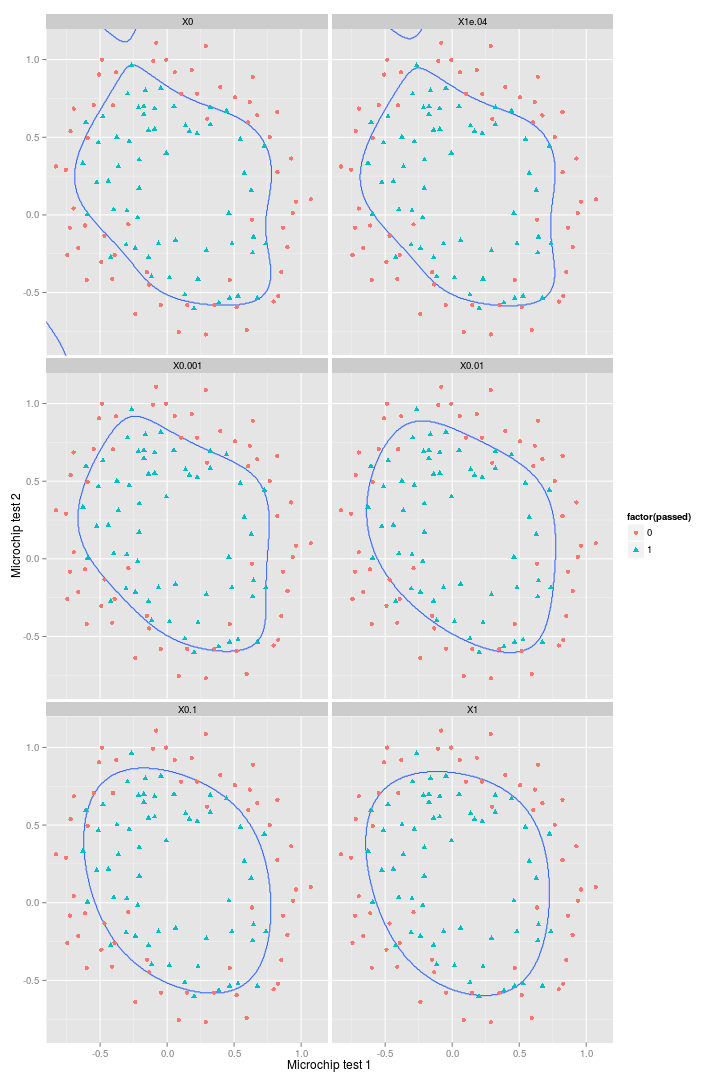
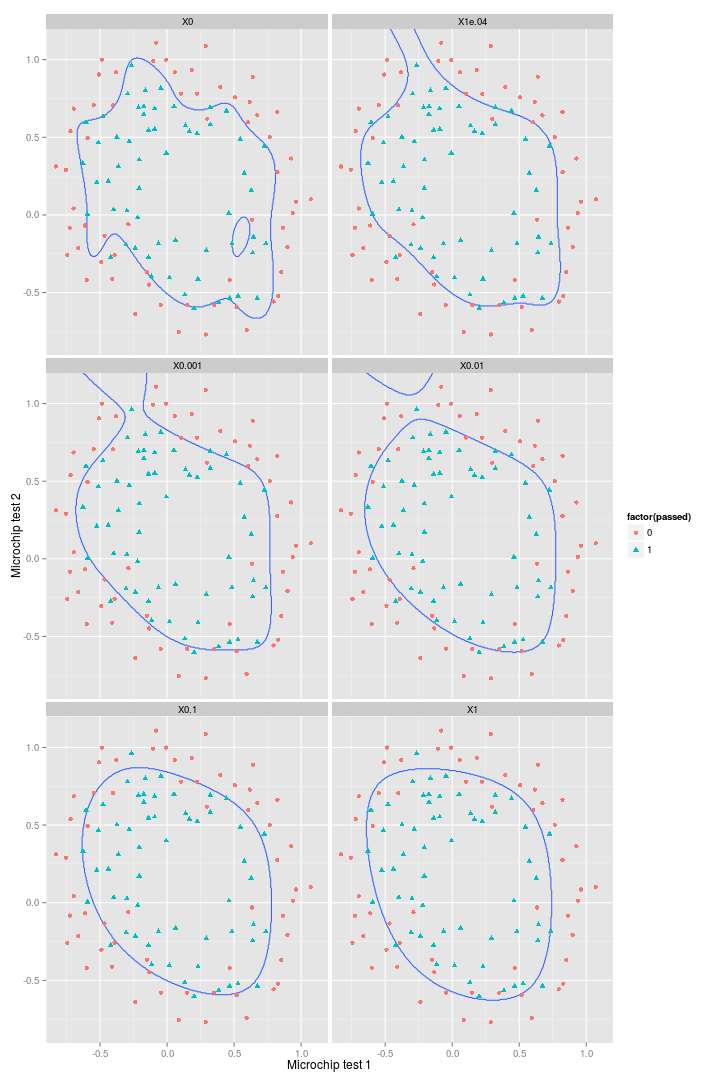
corrected errors in regularised logistic regression post

diff --git a/_posts/2015-04-10-regularised-logistic-regression.md b/_posts/2015-04-10-regularised-logistic-regression.md
@@ -1,7 +1,7 @@
 ---
 title: "Non-linear classification with logistic regression"
 date: 2015-04-10
-modified: 2015-04-10
+#modified: 2015-04-10
 excerpt: "Implementing regularisation and feature mapping."
 layout: post
 published: true
@@ -14,11 +14,11 @@ tags: [classification, logistic regression, fminunc, feature mapping, regularisa
 
  
  
-In my last post I compared vectorised logistic regression solved with an optimisation algorithm with a generalised linear model. I tested it out on a very simple dataset which could be classified using a linear boundary. In this post I'm folling the next part of Andrew Ng's Machine Learning course on [coursera](http://www.coursera.org) and implementing regularisation and feature mapping to allow me to map non-linear decision boundaries using logistic regression. And of course, I'm doing it in R, not Matlab or Octave.
+In my last post I compared vectorised logistic regression solved with an optimisation algorithm with a generalised linear model. I tested it out on a very simple dataset which could be classified using a linear boundary. In this post I'm following the next part of Andrew Ng's Machine Learning course on [coursera](http://www.coursera.org) and implementing regularisation and feature mapping to allow me to map non-linear decision boundaries using logistic regression. And of course, I'm doing it in R, not Matlab or Octave.
  
 ### Visualising the data
  
-First I plot the data...and it's pretty clear that to create an accurate decision boundary will probably require some level of polynomials in order to account for its spherical nature.
+First I plot the data...and it's pretty clear that to create an accurate decision boundary will require some degree of polynomial features in order to account for its spherical nature.
  
 
 {% highlight r %}
@@ -55,7 +55,7 @@ p
  
 ### Feature mapping
  
-In this example I'll map the features into all polynomial terms of $x_1$ and $x_2$ up to the fifth power. Hence:
+In this example I'll map the features into all polynomial terms of $x_1$ and $x_2$ up to the twelfth power giving a crazy amount of input features. Hence:
  
 $$
 mF(x)=\begin{bmatrix}
@@ -67,12 +67,12 @@ x_1 x_2 \\
 x_2^2 \\
 x_1^3 \\
 \vdots \\
-x_1x_2^5 \\
-x_2^6
+x_1x_2^{11} \\
+x_2^{12}
 \end{bmatrix}
 $$
  
-These polynomials can be calculated with the following code. The first rather inelegant nested `for` loop could probably be replaced with something more mathematically elegant. In future I will update this to take more than two input features.
+These polynomials can be calculated with the following code. In future I will update this to take more than two input features.
  
  
 
@@ -117,11 +117,11 @@ map_feature <- function(X1,X2,degree) {
   }
 {% endhighlight %}
  
-For this example, I will use an overly high degree of polynomial so that the effect of the regularisation is more pronounced.
+And tthe list of 91 features:
  
 
 {% highlight r %}
-degree <- 5
+degree <- 12
  
 poly <- map_feature(
   ex2data2$test_1,
@@ -135,14 +135,28 @@ poly %>% colnames
 
 
 {% highlight text %}
-##  [1] "1"         "X1^1*X2^0" "X1^0*X2^1" "X1^2*X2^0" "X1^1*X2^1"
-##  [6] "X1^0*X2^2" "X1^3*X2^0" "X1^2*X2^1" "X1^1*X2^2" "X1^0*X2^3"
-## [11] "X1^4*X2^0" "X1^3*X2^1" "X1^2*X2^2" "X1^1*X2^3" "X1^0*X2^4"
-## [16] "X1^5*X2^0" "X1^4*X2^1" "X1^3*X2^2" "X1^2*X2^3" "X1^1*X2^4"
-## [21] "X1^0*X2^5"
+##  [1] "1"          "X1^1*X2^0"  "X1^0*X2^1"  "X1^2*X2^0"  "X1^1*X2^1" 
+##  [6] "X1^0*X2^2"  "X1^3*X2^0"  "X1^2*X2^1"  "X1^1*X2^2"  "X1^0*X2^3" 
+## [11] "X1^4*X2^0"  "X1^3*X2^1"  "X1^2*X2^2"  "X1^1*X2^3"  "X1^0*X2^4" 
+## [16] "X1^5*X2^0"  "X1^4*X2^1"  "X1^3*X2^2"  "X1^2*X2^3"  "X1^1*X2^4" 
+## [21] "X1^0*X2^5"  "X1^6*X2^0"  "X1^5*X2^1"  "X1^4*X2^2"  "X1^3*X2^3" 
+## [26] "X1^2*X2^4"  "X1^1*X2^5"  "X1^0*X2^6"  "X1^7*X2^0"  "X1^6*X2^1" 
+## [31] "X1^5*X2^2"  "X1^4*X2^3"  "X1^3*X2^4"  "X1^2*X2^5"  "X1^1*X2^6" 
+## [36] "X1^0*X2^7"  "X1^8*X2^0"  "X1^7*X2^1"  "X1^6*X2^2"  "X1^5*X2^3" 
+## [41] "X1^4*X2^4"  "X1^3*X2^5"  "X1^2*X2^6"  "X1^1*X2^7"  "X1^0*X2^8" 
+## [46] "X1^9*X2^0"  "X1^8*X2^1"  "X1^7*X2^2"  "X1^6*X2^3"  "X1^5*X2^4" 
+## [51] "X1^4*X2^5"  "X1^3*X2^6"  "X1^2*X2^7"  "X1^1*X2^8"  "X1^0*X2^9" 
+## [56] "X1^10*X2^0" "X1^9*X2^1"  "X1^8*X2^2"  "X1^7*X2^3"  "X1^6*X2^4" 
+## [61] "X1^5*X2^5"  "X1^4*X2^6"  "X1^3*X2^7"  "X1^2*X2^8"  "X1^1*X2^9" 
+## [66] "X1^0*X2^10" "X1^11*X2^0" "X1^10*X2^1" "X1^9*X2^2"  "X1^8*X2^3" 
+## [71] "X1^7*X2^4"  "X1^6*X2^5"  "X1^5*X2^6"  "X1^4*X2^7"  "X1^3*X2^8" 
+## [76] "X1^2*X2^9"  "X1^1*X2^10" "X1^0*X2^11" "X1^12*X2^0" "X1^11*X2^1"
+## [81] "X1^10*X2^2" "X1^9*X2^3"  "X1^8*X2^4"  "X1^7*X2^5"  "X1^6*X2^6" 
+## [86] "X1^5*X2^7"  "X1^4*X2^8"  "X1^3*X2^9"  "X1^2*X2^10" "X1^1*X2^11"
+## [91] "X1^0*X2^12"
 {% endhighlight %}
  
-Chances are that using all these features will result in overfitting. Let's see the result of this:
+Now run the linear regression I implemented in my [previous post](http://ivyleavedtoadflax.github.io//implementing-vectorised-logistic-regression/).
  
 
 {% highlight r %}
@@ -161,7 +175,7 @@ ucminf_out$convergence
 
 
 {% highlight text %}
-## [1] 1
+## [1] 4
 {% endhighlight %}
 
 
@@ -173,10 +187,10 @@ ucminf_out$message
 
 
 {% highlight text %}
-## [1] "Stopped by small gradient (grtol)."
+## [1] "Stopped by zero step from line search"
 {% endhighlight %}
  
-So...it did converge, and if I was to call `ucminf_out$par`, it will return our 21 parameters.
+So the optimisation algorithm converged successfully, and if I was to call `ucminf_out$par`, it would return our 91 parameters.
  
 At this point it is probably worth defining some sort of measure of accuracy. A simple proportion error will suffice in this case.
  
@@ -184,7 +198,7 @@ At this point it is probably worth defining some sort of measure of accuracy. A 
 {% highlight r %}
 err <- function(y,pred) {
   
-  # Should really be implementing more unit tests throughout...,meh
+  # Should really be implementing more unit tests throughout...
   
   test_that(
     "Prediction and actual are the same length",
@@ -196,12 +210,7 @@ err <- function(y,pred) {
   return(error)
   
   }
-{% endhighlight %}
  
-So the present model accurately predicts 91% of the training data, but it is a pretty specific shape that is likely to be overfitted.
- 
-
-{% highlight r %}
 # Proportion of data that is incorrectly classified
  
 err(
@@ -213,12 +222,15 @@ err(
 
 
 {% highlight text %}
-## [1] 0.09
+## [1] 0.07
 {% endhighlight %}
  
-With just two features, we can also quite easily plot the decision boundary. To do so I create a matrix $X$ of $m$ rows which corresponds to a grid of points for which we can then generate a prediction. We use the output $\theta$ derived from the model fit from the `ex2data1` data. We then combine the predictions from the grid of points in a contour plot.
+So the present model accurately predicts 93% of the training data, but it is a pretty specific shape that is likely to be overfitted.
  
-The function to create the boundary thus takes two inputs: a sequence of numbers `xy` delineating the limits of the plot. This works for situations where the ranges of the two features are similar, but would need to be adapted for features with different ranges - although it would probably be fine if feature scaling is used.
+ 
+With just two original input features, we can quite easily plot the decision boundary. To do so I create a matrix $X$ of $m$ rows which corresponds to a grid of points for which we can then generate a prediction. We use the output $\theta$ derived from the model fit from the `ex2data1` data. We then combine the predictions from the grid of points in a contour plot.
+ 
+The function to create the boundary thus takes two inputs: a sequence of numbers `xy` delineating the limits of the plot. This works for situations where the ranges of the two features are similar, but would need to be adapted for features with different ranges (although it would probably be fine if feature scaling is used)
  
  
 
@@ -237,7 +249,7 @@ draw_boundary <- function(xy,theta,degree) {
   }
 {% endhighlight %}
  
-Create the grid of points:
+Create the grid of predictions:
  
 
 {% highlight r %}
@@ -269,7 +281,7 @@ p + geom_contour(
 
 ![plot of chunk 2015-04-10-no-regularisation](/figures/2015-04-10-no-regularisation-1.png) 
  
-So this looks pretty good, but it could probably be improved especially in the top left where new cases are likely to be mis-classified.
+So this looks is capturing the positive values pretty well, but it could probably be improved especially in the top and bottom left where new cases are likely to be mis-classified.
  
 ### Regularisation - cost function and gradient
  
@@ -382,7 +394,7 @@ all.equal(
 ## [1] TRUE
 {% endhighlight %}
  
-So far so good. Ok so lets try running regularised logistic regression for the polynomial example, but first I'll wrap this into a function to save having to explicitly declare the parameters each time.
+So far so good. Now I'll try running regularised logistic regression for the polynomial example, but first I'll wrap this into a function to save having to explicitly declare the parameters each time.
  
 
 {% highlight r %}
@@ -427,11 +439,25 @@ reg_lr_out
 
 {% highlight text %}
 ## $theta
-##  [1]  1.14597671  0.58591828  1.17257049 -2.03072975 -0.87807833
-##  [6] -1.39411398  0.04982992 -0.37314127 -0.34099052 -0.29228499
-## [11] -1.59733906 -0.04894558 -0.61912854 -0.24544800 -1.37455636
-## [16] -0.34468084 -0.22036240 -0.05015388 -0.28349689 -0.27887222
-## [21] -0.67081958
+##  [1]  1.116795888  0.622142490  1.144381441 -1.760214959 -0.893246508
+##  [6] -1.210119424  0.259287641 -0.385567512 -0.378582876 -0.002113363
+## [11] -1.262116648 -0.043880154 -0.627506940 -0.275767731 -0.954816713
+## [16] -0.087929375 -0.206783162 -0.049800103 -0.279764342 -0.311163184
+## [21] -0.209464841 -0.871690233  0.034226746 -0.295848645  0.015258988
+## [26] -0.328545231 -0.153747438 -0.652765344 -0.212586493 -0.094079448
+## [31] -0.042243458 -0.115997122 -0.034127849 -0.169591334 -0.213073869
+## [36] -0.226615812 -0.618312146  0.040374942 -0.154958018  0.014430220
+## [41] -0.130840414  0.013658394 -0.187500334 -0.105806945 -0.447151822
+## [46] -0.238780084 -0.042082893 -0.036744504 -0.045987498 -0.018756874
+## [51] -0.065146211 -0.013666503 -0.105994705 -0.146706656 -0.203949401
+## [56] -0.451351638  0.032798742 -0.089688693  0.009685109 -0.057863261
+## [61]  0.006237453 -0.068507640  0.012199324 -0.114344440 -0.080982886
+## [66] -0.317099323 -0.226550777 -0.019006589 -0.029703171 -0.018856708
+## [71] -0.012996508 -0.024383193 -0.006704414 -0.039146008 -0.002644283
+## [76] -0.070252488 -0.105101718 -0.177581222 -0.338552450  0.023408734
+## [81] -0.055668058  0.006591905 -0.028903065  0.002398368 -0.026917924
+## [86]  0.004309776 -0.040090466  0.010951520 -0.074018464 -0.065810602
+## [91] -0.236770557
 ## 
 ## $error
 ## [1] 0.15
@@ -466,7 +492,7 @@ p + geom_contour(
  
 Regularisation has smoothed away much of the overfitting. We can't tell how succesful this will be without evaluating the model on the a set, but we can also try a range of values for $\lambda$ and see what effect this has.
  
-First compute the percentage errors for $\lambda=\{0,0.0001,0.001,0.005,0.01,0.05,0.1,0.5\}$.
+First compute the percentage errors for $\lambda=\{0,0.0001,0.001,0.01,0.1,1\}$.
  
 
 {% highlight r %}
@@ -491,9 +517,9 @@ reg_error %>% set_colnames(c("i","error"))
 
 {% highlight text %}
 ##          i error
-## [1,] 0e+00  0.09
-## [2,] 1e-04  0.09
-## [3,] 1e-03  0.10
+## [1,] 0e+00  0.07
+## [2,] 1e-04  0.08
+## [3,] 1e-03  0.09
 ## [4,] 1e-02  0.10
 ## [5,] 1e-01  0.11
 ## [6,] 1e+00  0.15
@@ -577,7 +603,8 @@ out_mat %>%
 
 ![plot of chunk 2015-04-10-various-lambdas](/figures/2015-04-10-various-lambdas-1.png) 
  
-So it's clear that increasing $\lambda$ leads to progressively greater smoothing of the decision boundary. And despite decreasing accuracy on the training set, these regularised decision boundaries would probably perform better against a test set.
+So it's clear that increasing $\lambda$ leads to progressively greater smoothing of the decision boundary. And despite decreasing accuracy on the training set, these regularised decision boundaries would certainly perform better against a test set.
+ 
  
 
 {% highlight r %}
